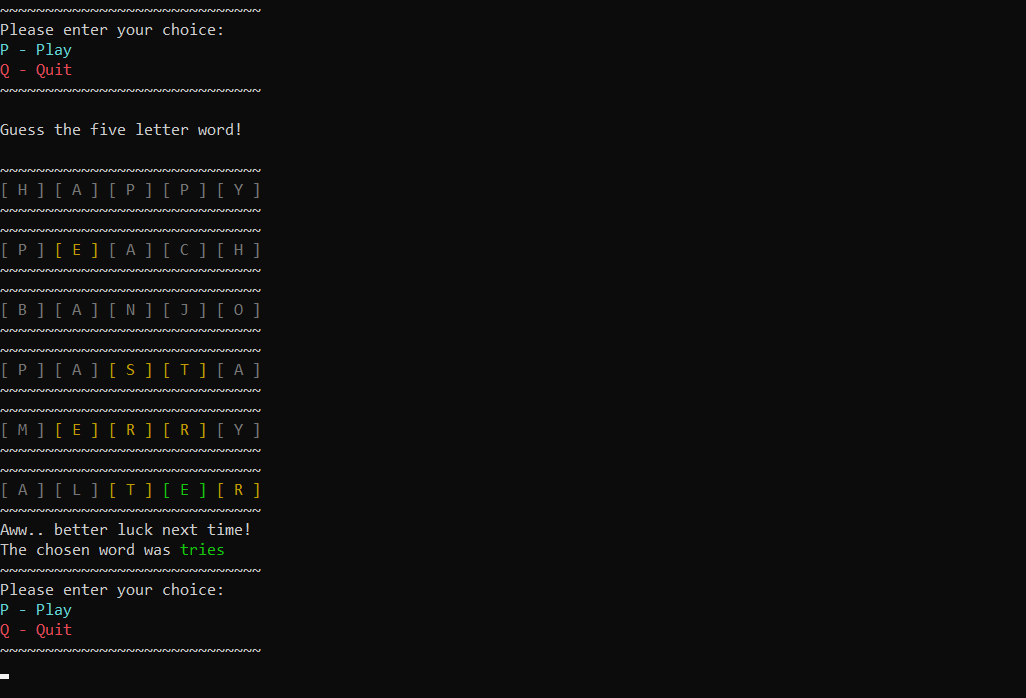
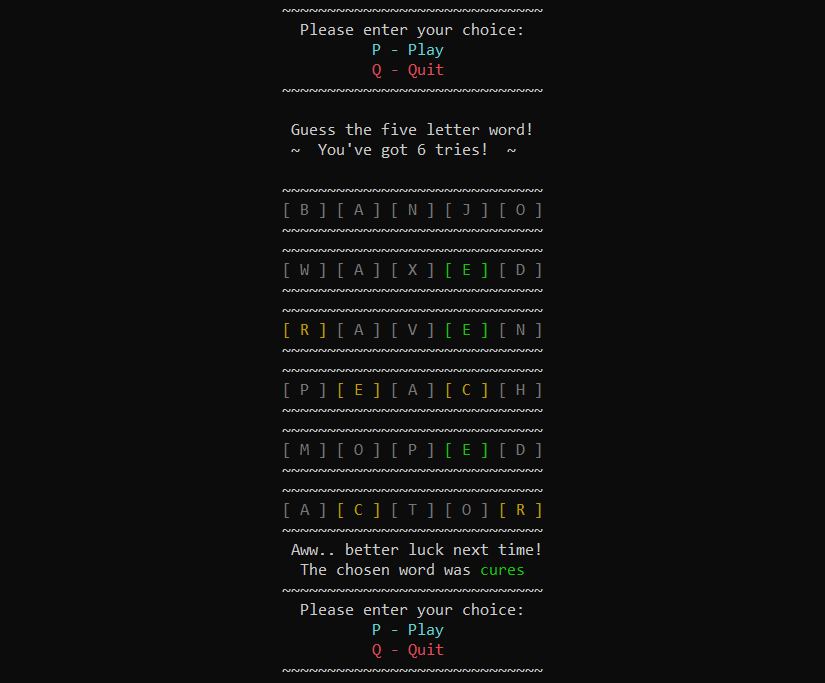
Code cleanup + text formatting

diff --git a/Program.cs b/Program.cs
@@ -21,7 +21,7 @@ do
             quit = true;
             break;
         default:
-            Console.WriteLine("Invalid choice!");
+            Console.WriteLine("        Invalid choice!");
             break;
     }
 }
@@ -33,11 +33,11 @@ void PlayTheGame()
     string chosenWord = fiveLetterWords[randomWordGenerator.Next(0, 2500)];
     List<string> guesses = new List<string>();
     List<char> letters = new List<char>();
-    Console.WriteLine("Guess the five letter word!");
+    Console.WriteLine("  Guess the five letter word!");
+    Console.WriteLine("  ~  You've got 6 tries!  ~");
     string guessedWord;
     int iterations = 0;
     Console.WriteLine();
-    Console.WriteLine(chosenWord);
 
     do
     {
@@ -46,15 +46,13 @@ void PlayTheGame()
 
         if (fiveLetterWords.Contains(guessedWord) && !guesses.Contains(guessedWord))
         {
-            Console.WriteLine("~~~~~~~~~~~~~~~~~~~~~~~~~~~~~");
+            Console.WriteLine(" ~~~~~~~~~~~~~~~~~~~~~~~~~~~~~");
             string guessedWordUpper = guessedWord.ToUpper();
             letters.Clear();
 
+            Console.Write(" ");
             for (int i = 0; i < 5; i++)
             {
-                //Known bug: If the chosenWord has two identical letters and
-                //your guessWord has both those letters in the wrong place
-                //only one of them will be highlighted
                 if (guessedWord[i] == chosenWord[i]) Console.ForegroundColor = ConsoleColor.Green;
                 else if (chosenWord.Contains(guessedWord[i]) && !letters.Contains(guessedWord[i])) Console.ForegroundColor = ConsoleColor.DarkYellow;
                 else Console.ForegroundColor = ConsoleColor.DarkGray;
@@ -65,43 +63,43 @@ void PlayTheGame()
             }
 
             Console.WriteLine();
-            Console.WriteLine("~~~~~~~~~~~~~~~~~~~~~~~~~~~~~");
+            Console.WriteLine(" ~~~~~~~~~~~~~~~~~~~~~~~~~~~~~");
             guesses.Add(guessedWord);
             iterations++;
         }
         else if (guesses.Contains(guessedWord))
         {
-            Console.WriteLine("You've already used that word, dummy!");
+            Console.WriteLine("  You've already used that word, dummy!");
             Thread.Sleep(2000);
             WordleApp.UtilityClass.DeletePrevConsoleLine();
         }
         else if (guessedWord.Length > 5)
         {
-            Console.WriteLine("Slow down, that's too many letters!");
+            Console.WriteLine("  Slow down, that's too many letters!");
             Thread.Sleep(2000);
             WordleApp.UtilityClass.DeletePrevConsoleLine();
         }
         else if (guessedWord.Length < 5)
         {
-            Console.WriteLine("We're gonna need a few more letters!");
+            Console.WriteLine("  We're gonna need a few more letters!");
             Thread.Sleep(2000);
             WordleApp.UtilityClass.DeletePrevConsoleLine();
         }
         else
         {
-            Console.WriteLine("That word is not in our dictionary!");
+            Console.WriteLine("  That word is not in our dictionary!");
             Thread.Sleep(2000);
             WordleApp.UtilityClass.DeletePrevConsoleLine();
         }
     }
     while (iterations < 6 && guessedWord != chosenWord);
 
-    if (iterations == 1) Console.WriteLine("How the f...!? You got it first try!");
-    else if (iterations < 6) Console.WriteLine($"Congratulations! It took you {iterations} tries to win!");
+    if (iterations == 1) Console.WriteLine("  How the f...!? You got it first try!");
+    else if (iterations < 6) Console.WriteLine($"  Congratulations! It took you {iterations} tries to win!");
     else
     {
-        Console.WriteLine("Aww.. better luck next time!");
-        Console.Write("The chosen word was ");
+        Console.WriteLine("  Aww.. better luck next time!");
+        Console.Write("   The chosen word was ");
         Console.ForegroundColor = ConsoleColor.Green;
         Console.Write(chosenWord);
         Console.ResetColor();

diff --git a/UtilityClass.cs b/UtilityClass.cs
@@ -10,15 +10,15 @@ namespace WordleApp
     {
         public static void ShowMenu()
         {
-            Console.WriteLine("~~~~~~~~~~~~~~~~~~~~~~~~~~~~~");
-            Console.WriteLine("Please enter your choice:");
+            Console.WriteLine(" ~~~~~~~~~~~~~~~~~~~~~~~~~~~~~");
+            Console.WriteLine("   Please enter your choice:");
             Console.ForegroundColor = ConsoleColor.Cyan;
-            Console.WriteLine("P - Play");
+            Console.WriteLine("           P - Play");
             Console.ResetColor();
             Console.ForegroundColor = ConsoleColor.Red;
-            Console.WriteLine("Q - Quit");
+            Console.WriteLine("           Q - Quit");
             Console.ResetColor();
-            Console.WriteLine("~~~~~~~~~~~~~~~~~~~~~~~~~~~~~");
+            Console.WriteLine(" ~~~~~~~~~~~~~~~~~~~~~~~~~~~~~");
         }
         public static void DeletePrevConsoleLine()
         {
